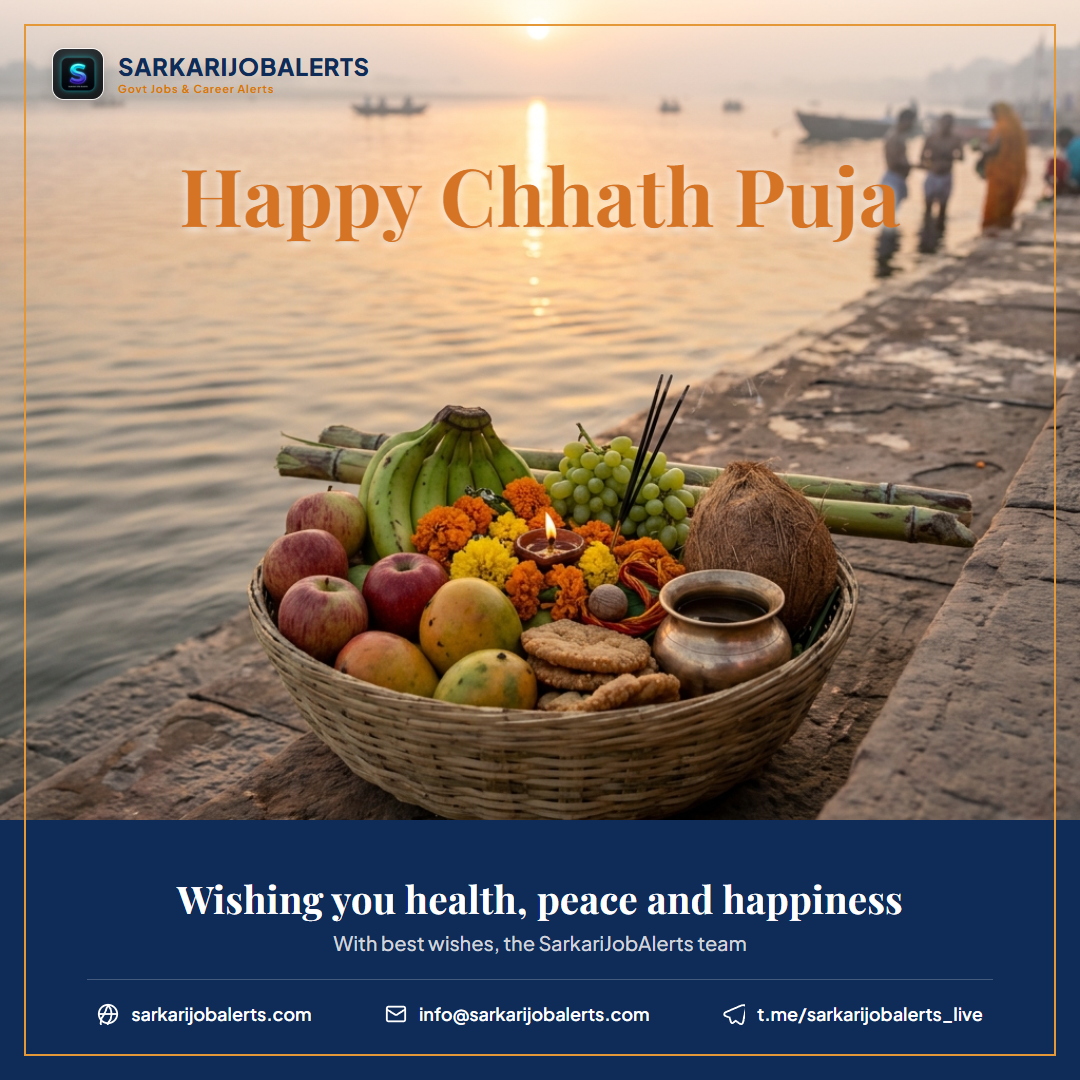
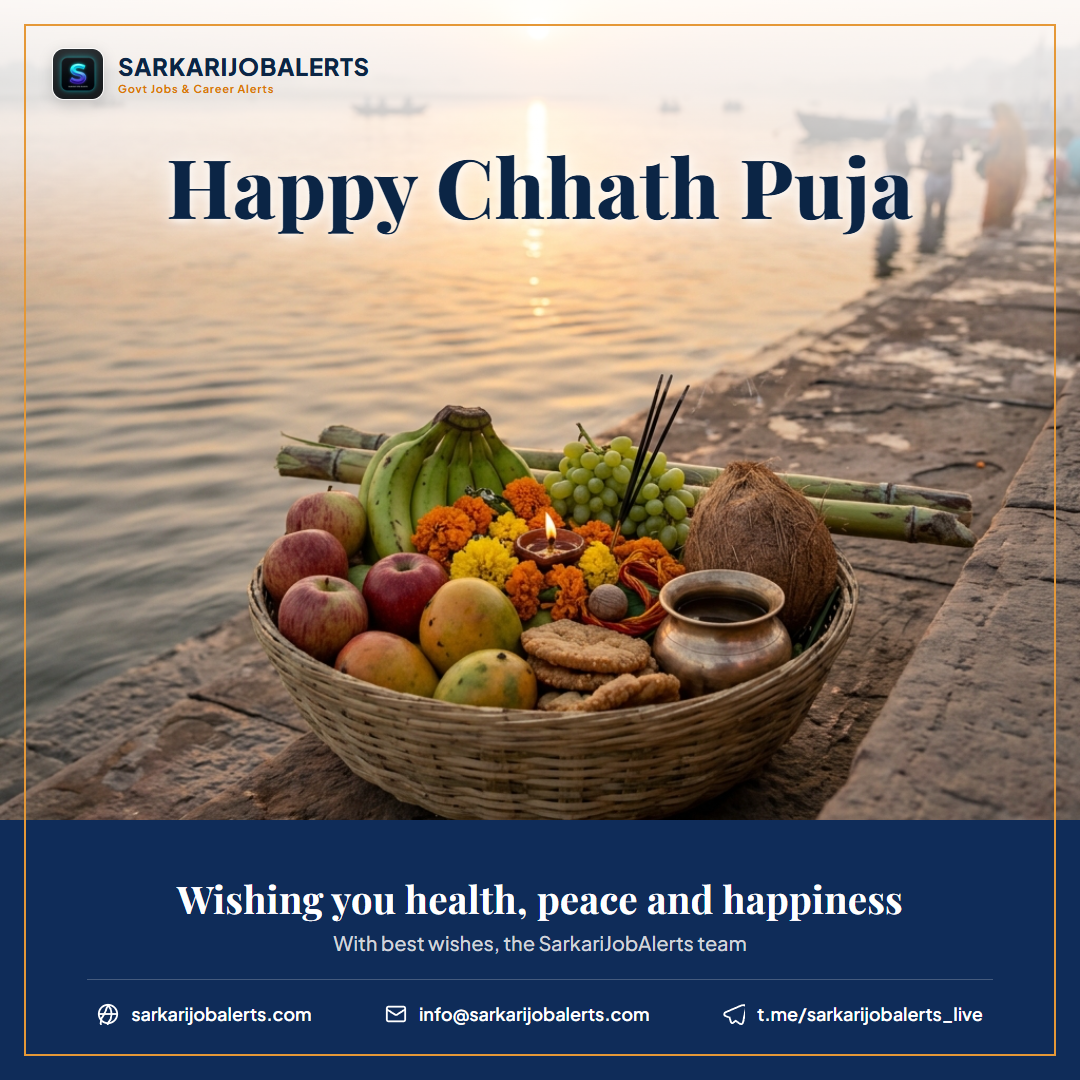
fix(branding): enhance heading contrast with website brand navy and configure cloud-native scheduled auto-post

Changed region(s): [[0.0, 0.0, 1.0, 0.2444]]

diff --git a/backend/services/imageCompositorService.js b/backend/services/imageCompositorService.js
@@ -117,14 +117,14 @@ export async function renderFestivalPoster({
       background-repeat: no-repeat;
     }
 
-    /* Ultra-soft ambient warm tint at the top to ensure crisp typography */
+    /* Soft ambient daylight wash at the top to ensure razor-sharp typography contrast */
     .top-light-gradient {
       position: absolute;
       top: 0;
       left: 0;
       width: 100%;
-      height: 240px;
-      background: linear-gradient(180deg, rgba(255, 255, 255, 0.55) 0%, rgba(255, 255, 255, 0.25) 55%, rgba(255, 255, 255, 0) 100%);
+      height: 280px;
+      background: linear-gradient(180deg, rgba(255, 255, 255, 0.90) 0%, rgba(255, 255, 255, 0.68) 55%, rgba(255, 255, 255, 0.25) 85%, rgba(255, 255, 255, 0) 100%);
       pointer-events: none;
       z-index: 2;
     }
@@ -159,7 +159,7 @@ export async function renderFestivalPoster({
       font-size: 24px;
       font-weight: 900;
       letter-spacing: 0.6px;
-      color: #0F2C59;
+      color: #0B2545;
       line-height: 1.1;
       text-transform: uppercase;
     }
@@ -173,10 +173,10 @@ export async function renderFestivalPoster({
       text-transform: capitalize;
     }
 
-    /* Top-Center Festival Greeting Headline */
+    /* Top-Center Festival Greeting Headline - Crisp Brand Navy with luminous backing */
     .festival-title-wrap {
       position: absolute;
-      top: 150px;
+      top: 140px;
       left: 0;
       width: 100%;
       text-align: center;
@@ -186,12 +186,12 @@ export async function renderFestivalPoster({
 
     .festival-title {
       font-family: 'Playfair Display', serif;
-      font-size: 80px;
-      font-weight: 700;
-      color: #D67425;
+      font-size: 82px;
+      font-weight: 800;
+      color: #0B2545;
       line-height: 1.1;
       letter-spacing: 0.5px;
-      text-shadow: 0 2px 10px rgba(255, 255, 255, 0.9), 0 1px 3px rgba(0, 0, 0, 0.12);
+      text-shadow: 0 0 25px rgba(255, 255, 255, 0.95), 0 2px 8px rgba(255, 255, 255, 0.9);
     }
 
     /* Bottom Navy Blue Banner (height 260px) */

diff --git a/backend/scripts/publishFestivalPost.js b/backend/scripts/publishFestivalPost.js
@@ -8,8 +8,8 @@ const __dirname = path.dirname(fileURLToPath(import.meta.url));
 dotenv.config({ path: path.resolve(__dirname, '../.env') });
 
 const PAGE_ID = process.env.FACEBOOK_PAGE_ID || '1204392889428589';
-const PAGE_ACCESS_TOKEN = process.env.FACEBOOK_PAGE_ACCESS_TOKEN;
-const TELEGRAM_BOT_TOKEN = process.env.TELEGRAM_BOT_TOKEN;
[1 lines of base64/hex data omitted]
+const TELEGRAM_BOT_TOKEN = process.env.TELEGRAM_BOT_TOKEN || '8897742173:AAFpAVhQl5A-us57x30rpOWVTQIRWT9_4ow';
 const TELEGRAM_CHANNEL_ID = process.env.TELEGRAM_CHANNEL_ID || '@sarkarijobalerts_live';
 
 /**
@@ -40,6 +40,18 @@ export async function postFestivalToFacebook(campaign, imagePath) {
   console.log(`[Facebook Campaign] Publishing "${campaign.name}" to Page ${PAGE_ID}...`);
 
   try {
+    // Check if post is already scheduled on Meta servers
+    try {
+      const scheduledRes = await fetchWithRetry(`https://graph.facebook.com/v19.0/${PAGE_ID}/scheduled_posts?access_token=${PAGE_ACCESS_TOKEN}`);
+      const scheduledData = await scheduledRes.json();
+      if (scheduledData?.data?.length > 0) {
+        console.log(`ℹ [Facebook Info] Post for "${campaign.name}" is already scheduled natively on Meta servers. Meta will publish it automatically without duplicates.`);
+        return { status: 'already_scheduled_on_meta' };
+      }
+    } catch (checkErr) {
+      // Proceed to direct upload if scheduled_posts check fails
+    }
+
     const fileBuffer = fs.readFileSync(imagePath);
     const blob = new Blob([fileBuffer], { type: 'image/png' });
     const formData = new FormData();
